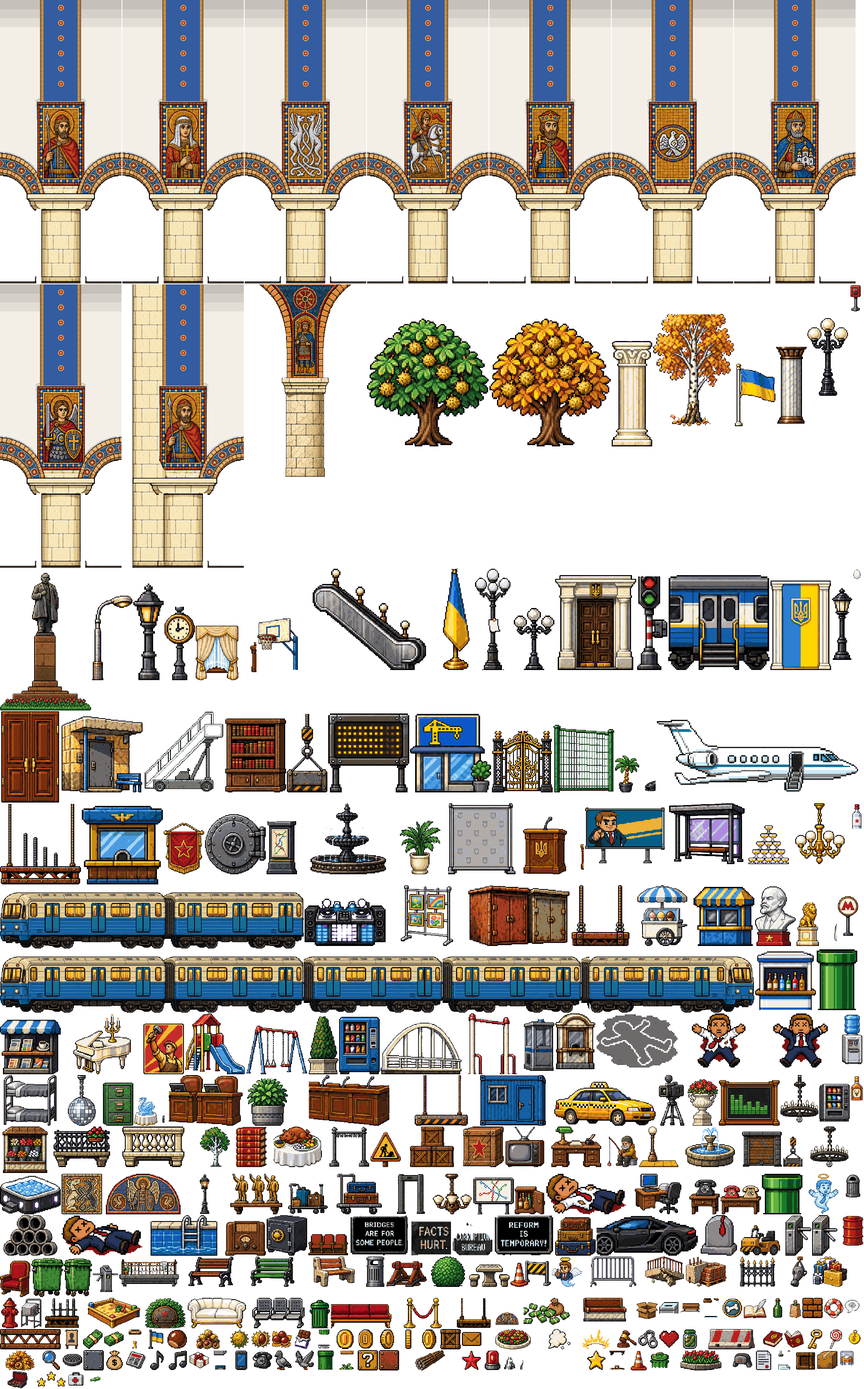
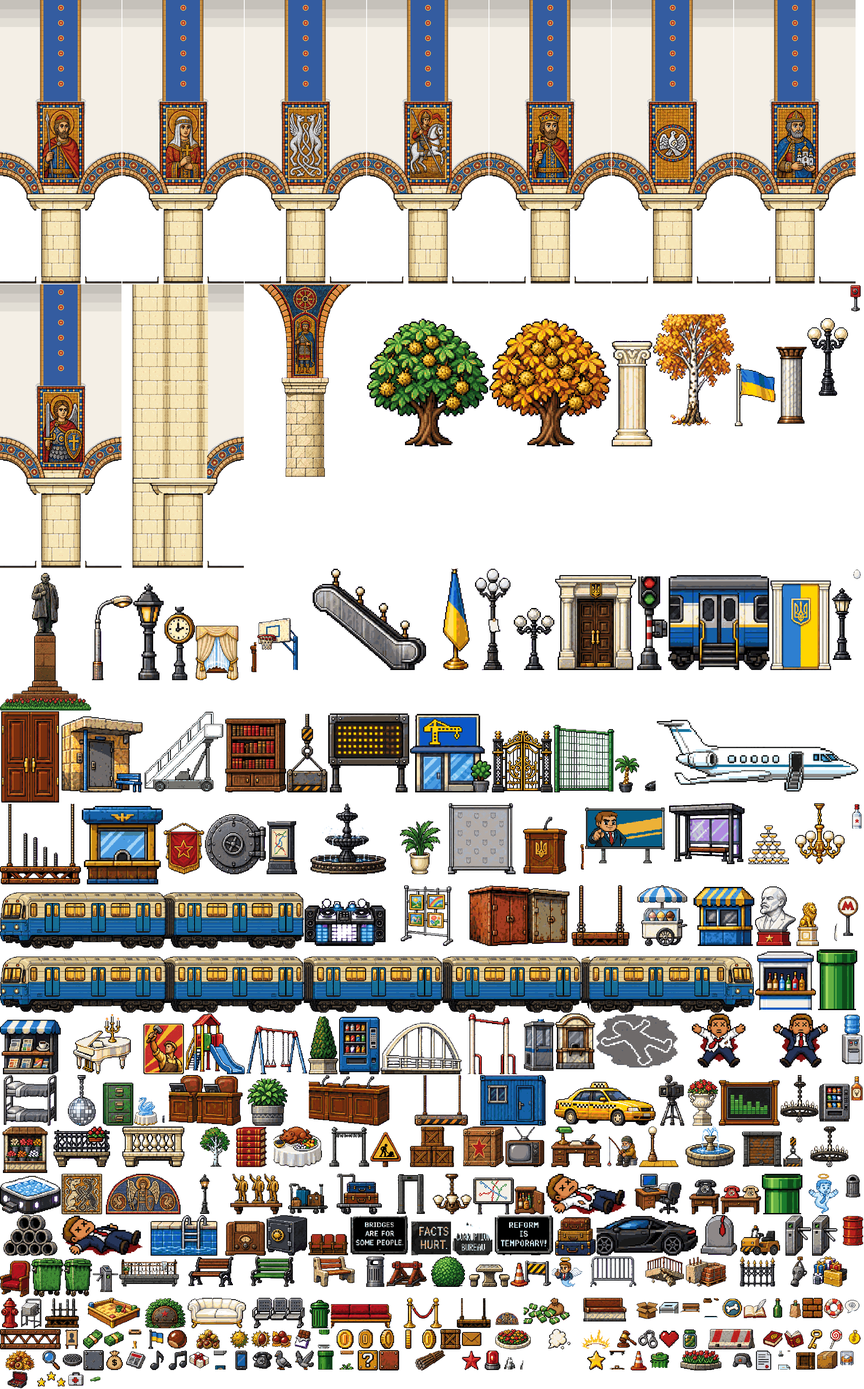
Metro end wall without a mosaic; the park stash hides behind a bush, not on the monument
- zv_bay_end: built from the bay with an empty panel field, all masonry, so the hall opens
  with just the ornamental half-arch; mosaic order changed so the sequence stays mixed
- 1-1: the first-aid stash box moved from Shevchenko's monument to behind the park bush
  (a front-drawn bush); E still finds it

Changed region(s): [[0.1562, 0.1859, 0.25, 0.3408]]

diff --git a/tools/make_metro_arcade.py b/tools/make_metro_arcade.py
@@ -129,7 +129,13 @@ def main():
             Image.fromarray(b, "RGBA").save(OUT / f"{name}.png")
             made.append(name)
     print("arcade bays:", made)
-    make_end(np.array(Image.open(OUT / f"{made[0]}.png")), int(px0 * s))
+    # the hall opens with just the ornamental half-arch: the end wall carries no mosaic panel
+    bay = canon.copy()
+    bay[cy0:cy1, cx0:cx1] = wall_colour(canon)
+    img = Image.fromarray(bay, "RGBA")
+    img = px.binarize_alpha(px.quantize(img.resize((BAY_W, round(img.height * BAY_W / img.width)), Image.BOX), palette))
+    empty = add_vault(cut_course(np.array(img)), int(cy0 * s), pl, pr, band=False)
+    make_end(empty, int(cx0 * s), int(cx1 * s))
     make_chandelier(np.array(Image.open(OUT / f"{made[0]}.png")))
 
 
@@ -186,7 +192,7 @@ def cut_course(b):
     return np.delete(b, range(m1, m2), axis=0)
 
 
-def make_end(bay, pl):
+def make_end(bay, pl, pr):
     """The first pier of the hall: a stone end wall (the pillar's own masonry, floor to vault) with the
     capital slab carried across it as a cornice; the right half-arch springs from it."""
     b = bay.copy()
@@ -208,15 +214,11 @@ def make_end(bay, pl):
     x0, slab_top, slab_bot = slab[0][1] + 1, slab[-1][0], slab[0][0]
     wall = np.zeros((h, w), bool)
     # above the slab: everything left of the mosaic (the left arch and its spandrel)
+    # above the slab: the left arch and its spandrel, and the empty panel field up to the right arch
+    rgb = b[..., :3].astype(int)
+    neutral = (rgb.max(axis=2) - rgb.min(axis=2) < 30) & (rgb.mean(axis=2) > 170) & al
     wall[:slab_top, xw:pl] = True
-    # above the mosaic: everything left of the transverse arch band
-    row_wall = b[2, xw, :3].astype(int)
-    band_l = next(x for x in range(xw, c) if np.abs(b[2, x, :3].astype(int) - row_wall).sum() > 40)
-    och = b[2, band_l + 3, :3].astype(int)
-    ptop = next(y for y in range(2, h) if np.abs(b[y, band_l + 3, :3].astype(int) - och).sum() > 90
-                and np.abs(b[y, band_l + 3, :3].astype(int) - b[y - 1, band_l + 3, :3].astype(int)).sum() > 0
-                and y > 20)
-    wall[:ptop, xw:band_l] = True
+    wall[:slab_top, pl:pr + 3] |= neutral[:slab_top, pl:pr + 3]
 
     # under the mosaic the plinth stands on the slab; the left arch's foot beside it becomes wall too
     def stone(px):
@@ -267,7 +269,7 @@ def make_end(bay, pl):
     b[:, xw + 1:xw + 4, :3] = (b[:, xw + 1:xw + 4, :3] * 0.82).astype(np.uint8)
     b[:, :xw] = 0
     Image.fromarray(b, "RGBA").save(OUT / "zv_bay_end.png")
-    print(f"zv_bay_end: wall from x {xw}, slab {slab_top}-{slab_bot}, band x {band_l}, mosaic top {ptop}")
+    print(f"zv_bay_end: wall from x {xw}, slab {slab_top}-{slab_bot}")
 
 
 def wall_colour(canon):
@@ -277,7 +279,7 @@ def wall_colour(canon):
     return np.median(top, axis=0).astype(np.uint8) if len(top) else np.array([240, 236, 226, 255], np.uint8)
 
 
-def add_vault(b, ptop, pl, pr):
+def add_vault(b, ptop, pl, pr, band=True):
     """Extend the bay upward to FULL_H: the transverse arch band rises from the panel into a vault
     that darkens in flat steps towards the top (a ceiling)."""
     h, w = b.shape[:2]
@@ -293,6 +295,8 @@ def add_vault(b, ptop, pl, pr):
     for i, f in enumerate((0.93, 0.87, 0.81)):
         y1 = int(pad * (0.34 - i * 0.11))
         top[:max(0, y1)] = (base[:3] * f).astype(np.uint8).tolist() + [255]
+    if not band:
+        return np.concatenate([top, b], axis=0)[-FULL_H:]
     # the transverse arch band rising from the panel (ochre brick edges, blue mosaic, red rosettes)
     OCH, OCH2, BLUE, RED, GOLD, OUT_ = (206, 150, 70), (166, 110, 48), (52, 92, 160), (182, 50, 40), (226, 182, 86), (40, 30, 26)
     bw = int((pr - pl) * 0.86)

diff --git a/tools/author_level1.py b/tools/author_level1.py
@@ -70,7 +70,7 @@ put(d, 13, 82, "U")                      # campaign poster
 put(d, 13, 89, "K")                      # tulip bed (cols 89-91)
 put(d, 13, 92, "M")                      # globe lamp
 put(d, 13, 94, "J")                      # bench (cols 94-96)
-put(d, 13, 98, "N")                      # bush
+put(d, 13, 98, "W")                      # bush, drawn in front: the stash box hides behind it
 fill(m, 12, 13, 101, 102, "e")           # hedge
 put(m, 9, 100, "c..c")
 put(d, 13, 104, "Q")                     # chess table step (cols 104-105)
@@ -113,7 +113,7 @@ put(m, 13, 85, "T")                      # chestnut tree at the end of the stree
 for col in (93, 100, 118, 132, 147, 161):
     put(m, 13, col, "o")
 
-put(m, 9, 109, "+")   # voters' thank-you: +1 life (honest-reachable, off the beaten track)
+put(m, 13, 98, "+")   # voters' thank-you: +1 life, a box tucked behind the park bush (not on the monument)
 put(d, 13, 86, "D")                      # short pipe in the park (cols 86-87)
 put(d, 13, 120, "D")                     # short pipe by the tulips (cols 120-121)
 
@@ -143,7 +143,7 @@ meta = {
     "signs": [{"sprite": "plaque", "caption": "sign_reform"}, {"sprite": "lamp_leaflet", "caption": "sign_facts", "paper": [40, 123, 22, 27]}],
     "decor": {
         "A": "lamp_street", "B": "hydrant", "R": "cone_barrier", "U": "campaign_poster",
-        "K": {"frame": "tulip_bed", "w": 3}, "M": "lamp_park", "N": "bush", "S": "pigeon",
+        "K": {"frame": "tulip_bed", "w": 3}, "M": "lamp_park", "N": "bush", "W": {"frame": "bush", "front": True}, "S": "pigeon",
         "P": {"frame": "fountain", "w": 3},
         "C": {"frame": "trash_bin", "solid": "full", "w": 1, "top": 1.5},
         "D": {"frame": "pipe_short", "solid": "full", "w": 2, "top": 2},

diff --git a/tools/author_metro.py b/tools/author_metro.py
@@ -38,7 +38,7 @@ def metro():
     # platform hall
     # the Zoloti Vorota arcade: pillar-centred bays (6 cols) whose round arches meet; 8 different mosaics
     bays = "DFGIJLPR"                            # zv_bay_1 .. zv_bay_8
-    order = [4, 0, 6, 2, 5, 1, 7, 3, 0, 5, 2, 6]  # mixed, never the same panel twice in a row
+    order = [4, 0, 6, 5, 1, 7, 3, 2, 0, 5, 6, 1]  # mixed; the griffins (2) are on the end wall, so they return late
     c.dec(36, "W", GROUND - 1)                   # the first pier: the arcade starts at a wall, not a cut arch
     for k, col in enumerate(range(42, 110, 6)):  # the last bay runs past the level's right edge
         c.dec(col, bays[order[k % len(order)]], GROUND - 1)
